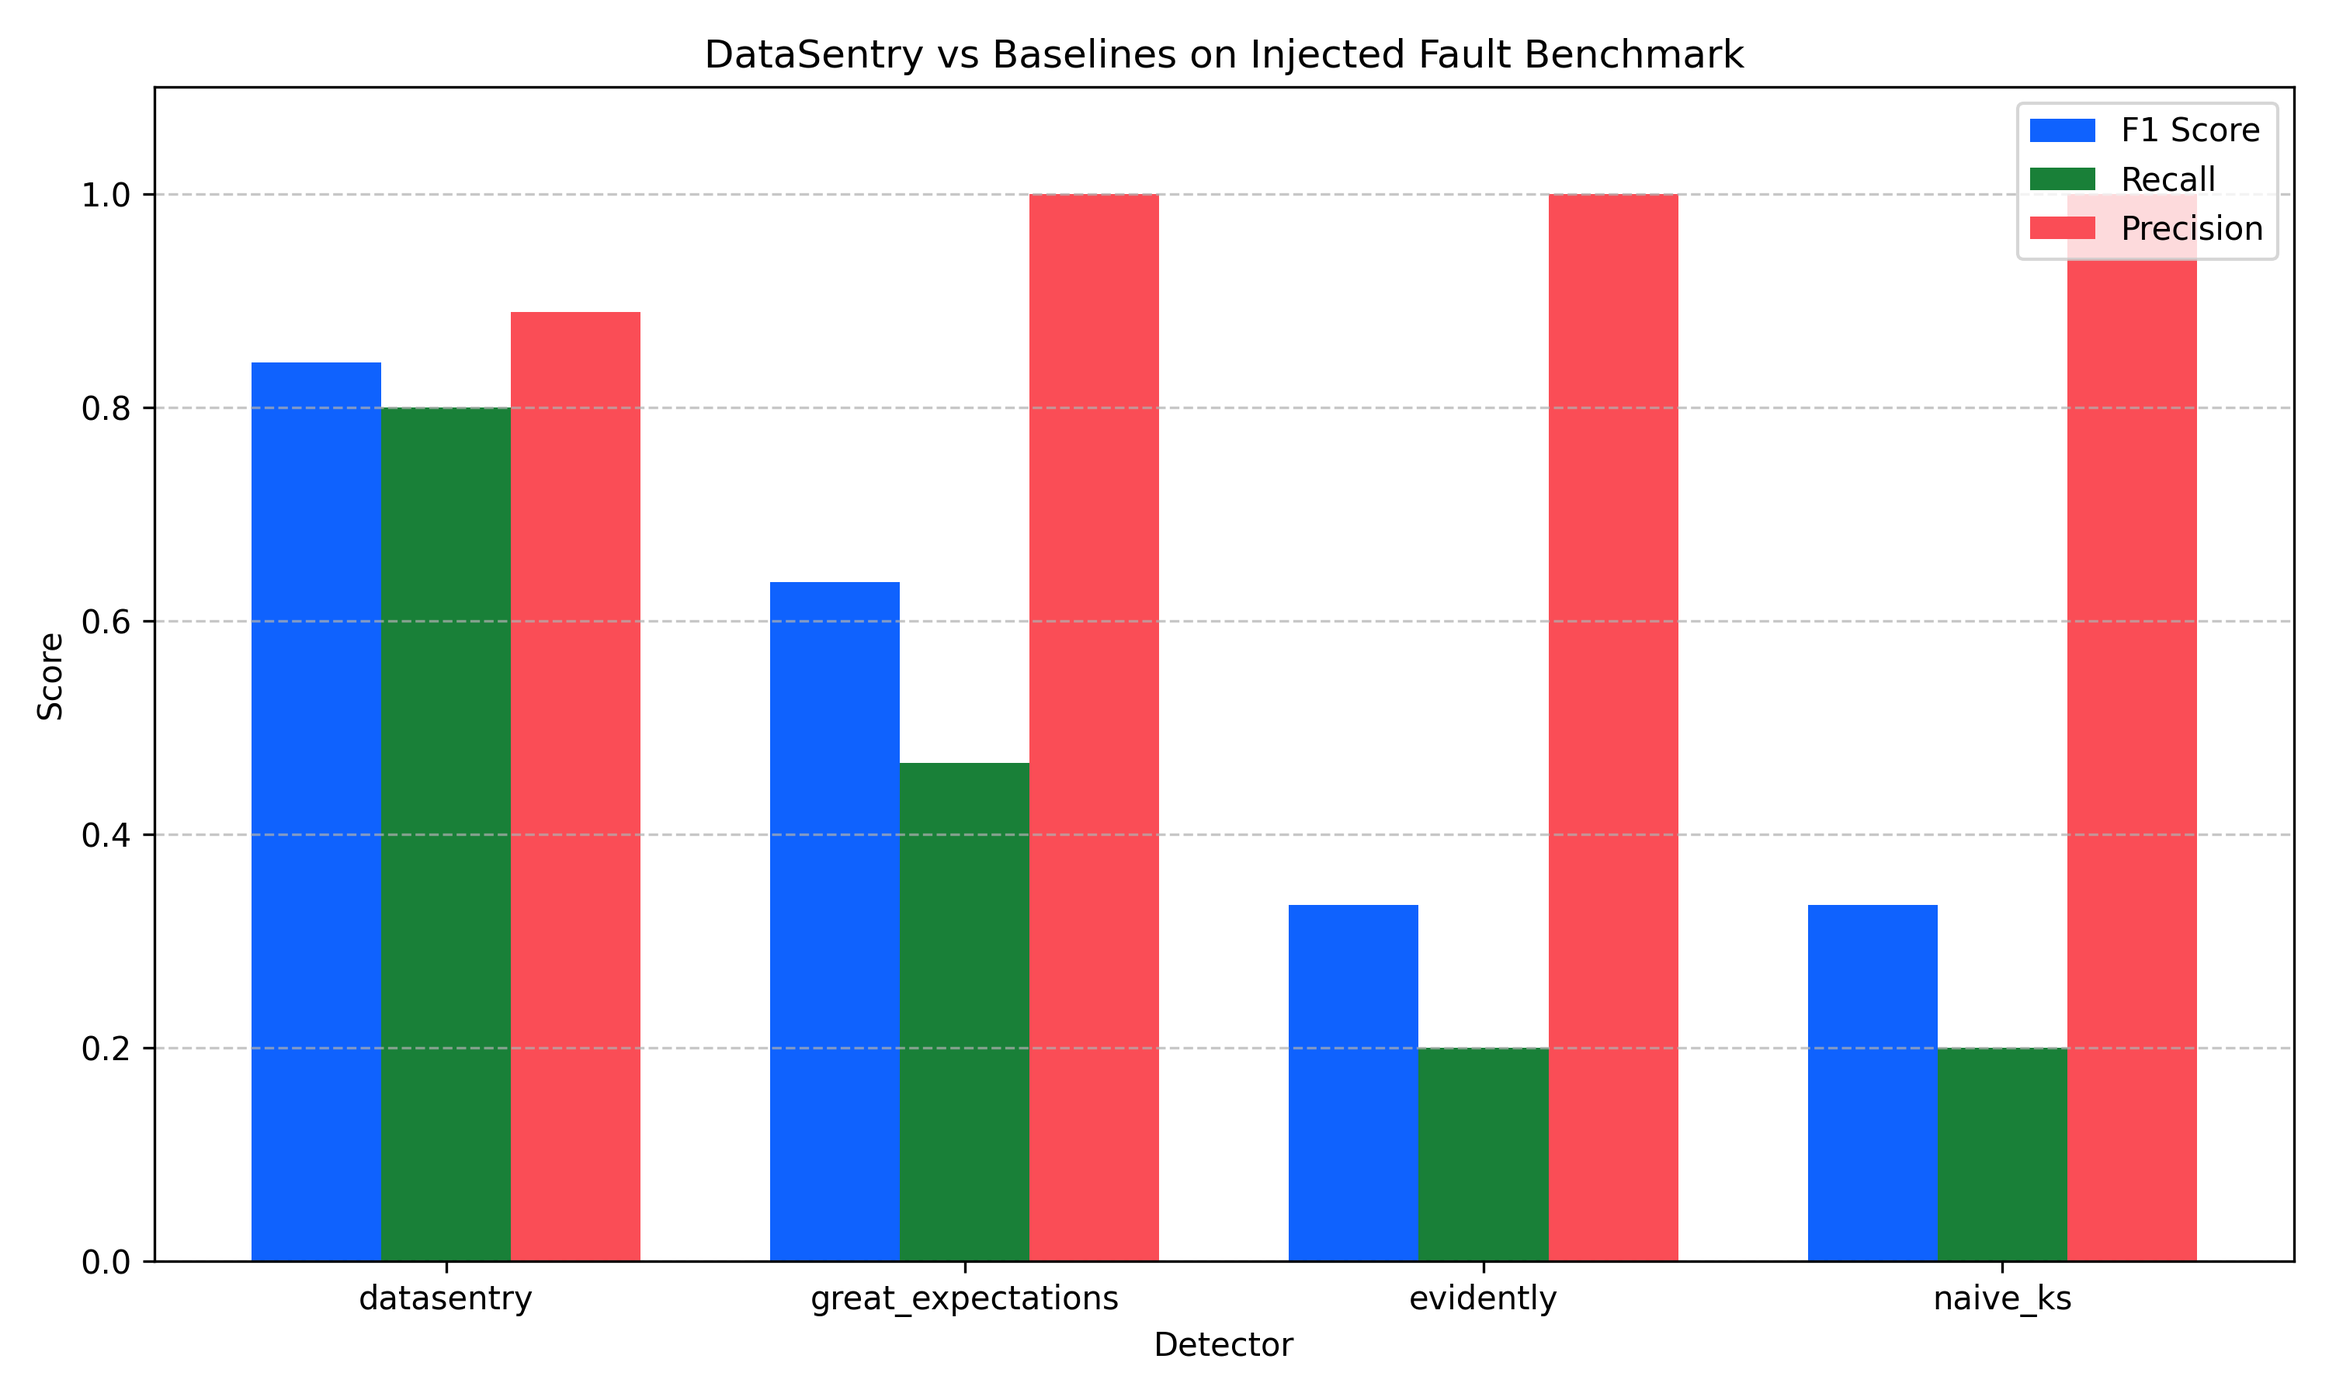
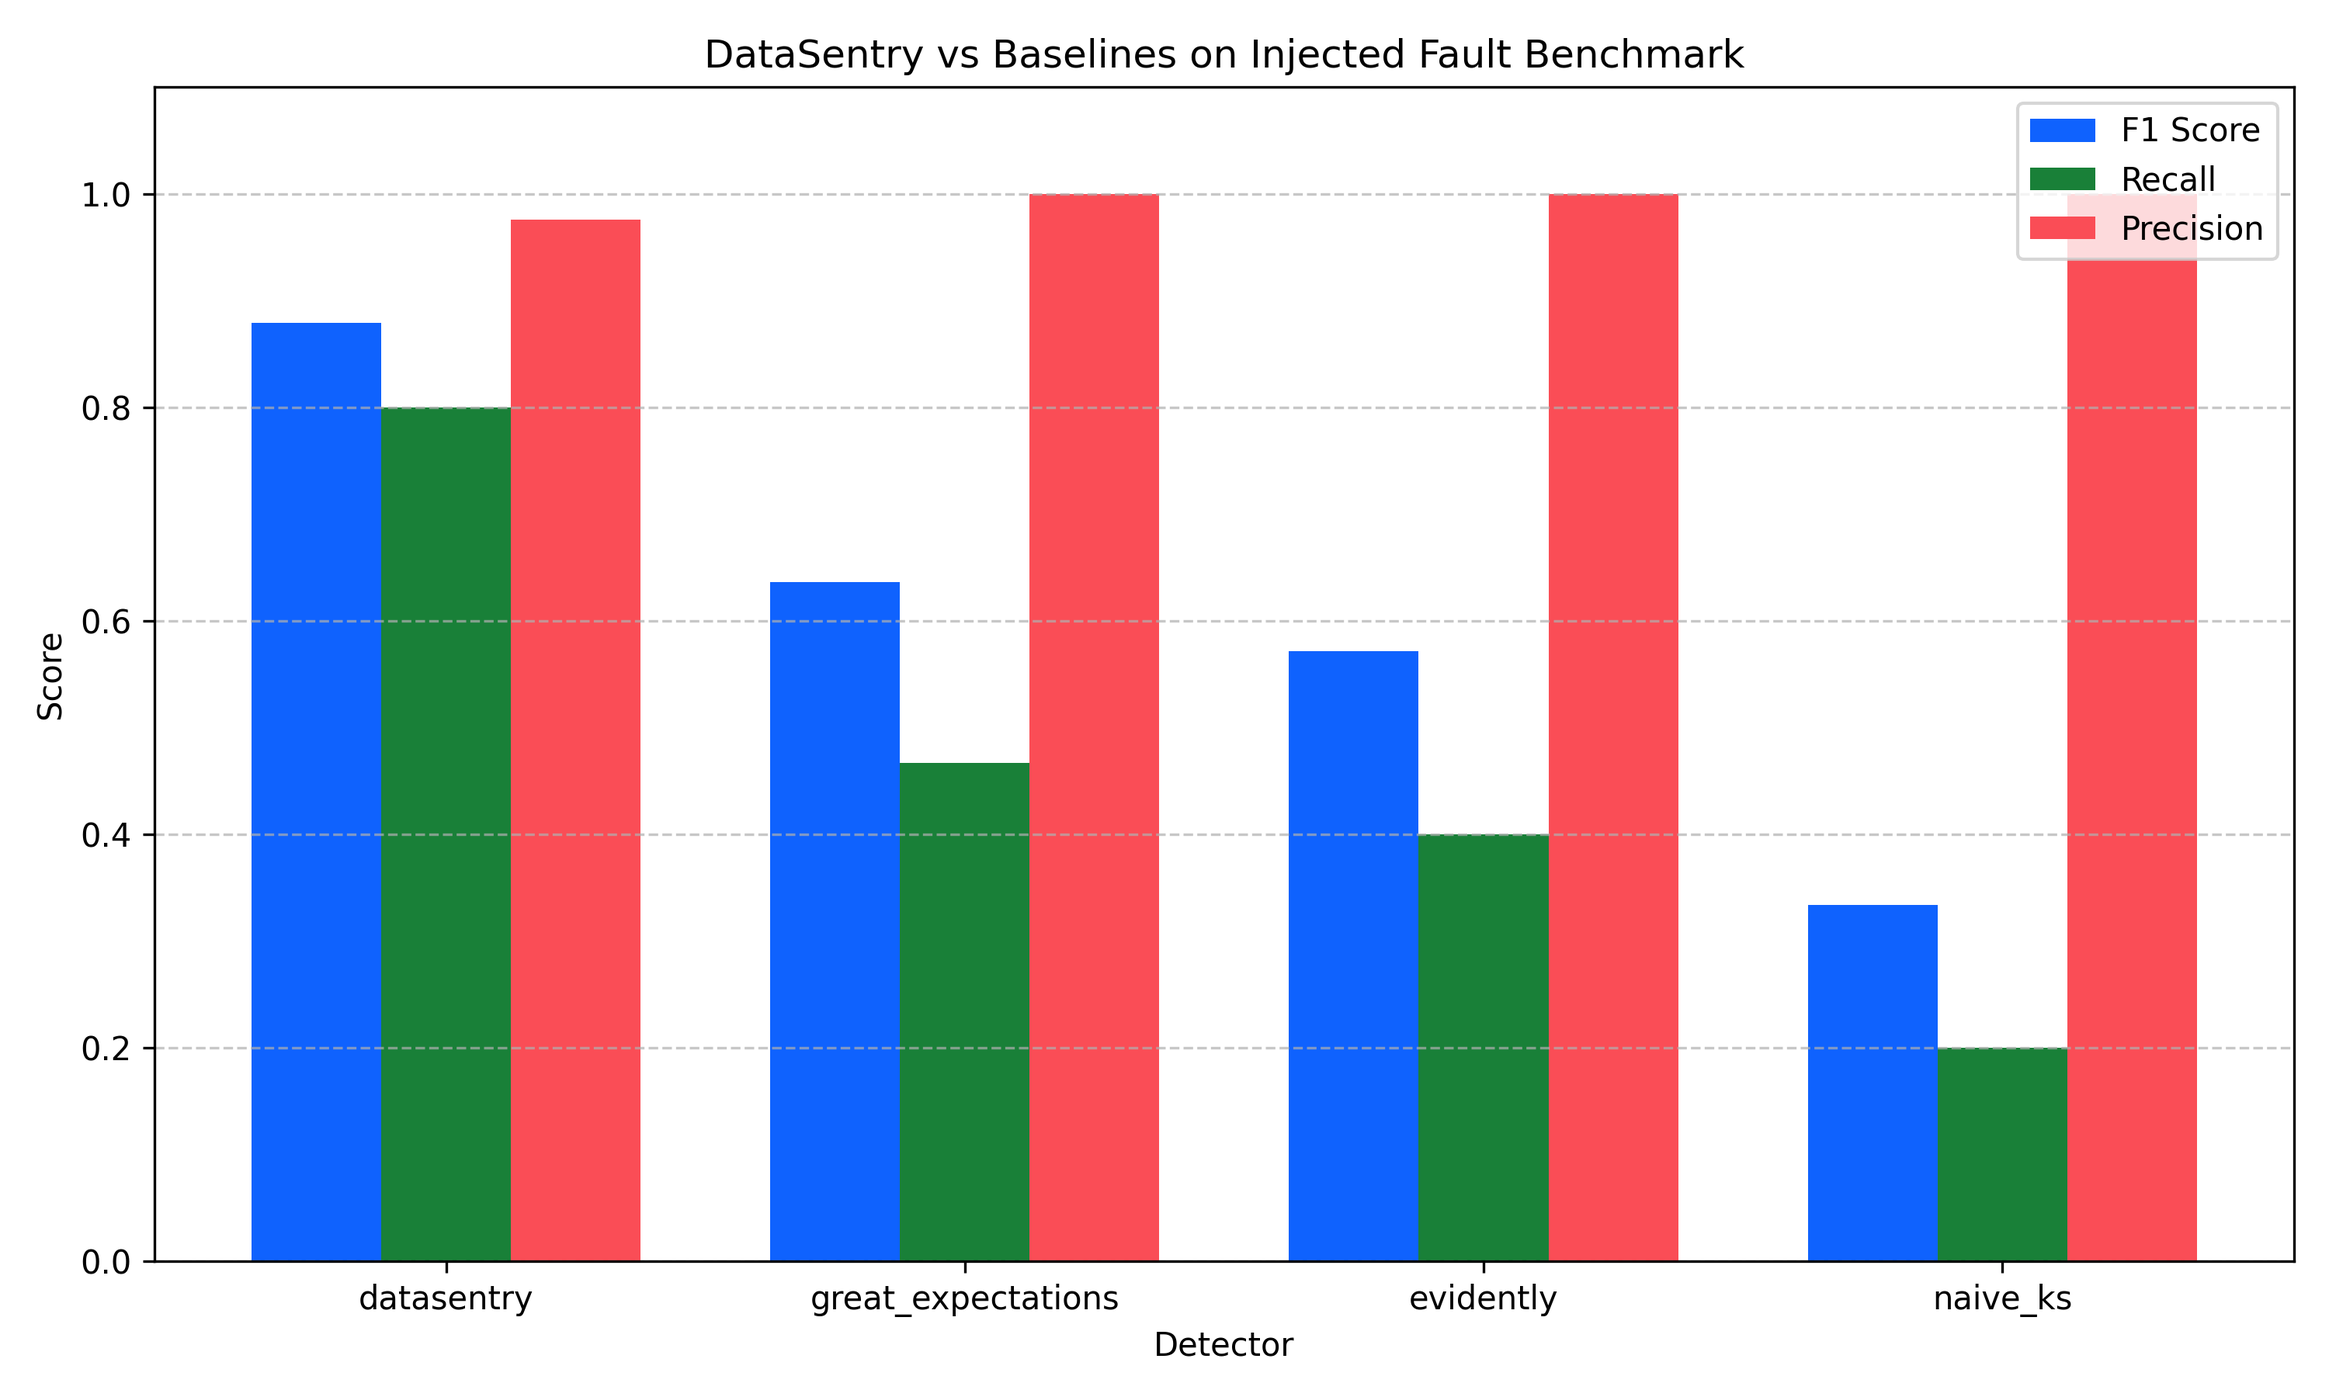
refactor(baselines): expand benchmark to 165 trials with confidence intervals and calibrate Evidently

Changed region(s): [[0.527, 0.4667, 0.682, 0.7778], [0.217, 0.1556, 0.279, 0.2489], [0.093, 0.2178, 0.186, 0.28]]

diff --git a/src/datasentry/evaluation/benchmark.py b/src/datasentry/evaluation/benchmark.py
@@ -13,7 +13,7 @@ Measures: Precision, Recall, F1, False Alarm Rate, and Latency (ms).
 from __future__ import annotations
 
 import os
-from typing import Any, Dict, List
+from typing import Any, Dict, List, Optional
 
 import pandas as pd
 
@@ -61,15 +61,18 @@ class BenchmarkRunner:
             ref_df = clean_df.iloc[:split_idx].copy()
             base_test_df = clean_df.iloc[split_idx:].copy()
 
-            # 1. Negative controls: Clean batches
             for run_i in range(n_runs_per_fault):
-                # Clean sample without artificial duplicates
+                seed = self.random_state + run_i
+                injector = FaultInjector(random_state=seed)
+
+                # 1. Negative controls: Clean batches across seeds
                 sample_n = min(len(base_test_df), 200)
-                sample_clean = base_test_df.sample(n=sample_n, replace=False, random_state=self.random_state + run_i)
+                sample_clean = base_test_df.sample(n=sample_n, replace=False, random_state=seed)
                 for det in self.detectors:
                     res = det.run(current_df=sample_clean, reference_df=ref_df, schema=schema)
                     records.append({
                         "dataset": ds_name,
+                        "run_seed": seed,
                         "fault_type": "CLEAN_CONTROL",
                         "is_fault": False,
                         "detector": det.name,
@@ -77,26 +80,28 @@ class BenchmarkRunner:
                         "latency_ms": res["latency_ms"],
                     })
 
-            # 2. Injected Faults
-            fault_scenarios = self._generate_fault_scenarios(base_test_df, ds_name)
-            for fault_type, corrupted_df in fault_scenarios:
-                for det in self.detectors:
-                    res = det.run(current_df=corrupted_df, reference_df=ref_df, schema=schema)
-                    records.append({
-                        "dataset": ds_name,
-                        "fault_type": fault_type.value,
-                        "is_fault": True,
-                        "detector": det.name,
-                        "detected": res["detected_fault"],
-                        "latency_ms": res["latency_ms"],
-                    })
+                # 2. Injected Faults across seeds
+                fault_scenarios = self._generate_fault_scenarios(base_test_df, ds_name, injector=injector)
+                for fault_type, corrupted_df in fault_scenarios:
+                    for det in self.detectors:
+                        res = det.run(current_df=corrupted_df, reference_df=ref_df, schema=schema)
+                        records.append({
+                            "dataset": ds_name,
+                            "run_seed": seed,
+                            "fault_type": fault_type.value,
+                            "is_fault": True,
+                            "detector": det.name,
+                            "detected": res["detected_fault"],
+                            "latency_ms": res["latency_ms"],
+                        })
 
         raw_df = pd.DataFrame(records)
         return self._compute_metrics(raw_df)
 
     def _generate_fault_scenarios(
-        self, base_df: pd.DataFrame, ds_name: str
+        self, base_df: pd.DataFrame, ds_name: str, injector: Optional[FaultInjector] = None
     ) -> List[tuple[FaultType, pd.DataFrame]]:
+        inj = injector or self.injector
         scenarios = []
 
         # Determine target columns based on dataset
@@ -114,25 +119,25 @@ class BenchmarkRunner:
             col_a, col_b = "glucose", "insulin"
 
         # 1. Schema Drop
-        scenarios.append((FaultType.SCHEMA_DROP, self.injector.inject_schema_drop(base_df, num_col).corrupted_df))
+        scenarios.append((FaultType.SCHEMA_DROP, inj.inject_schema_drop(base_df, num_col).corrupted_df))
         # 2. Schema Rename
-        scenarios.append((FaultType.SCHEMA_RENAME, self.injector.inject_schema_rename(base_df, num_col).corrupted_df))
+        scenarios.append((FaultType.SCHEMA_RENAME, inj.inject_schema_rename(base_df, num_col).corrupted_df))
         # 3. Schema Retype
-        scenarios.append((FaultType.SCHEMA_RETYPE, self.injector.inject_schema_retype(base_df, num_col).corrupted_df))
+        scenarios.append((FaultType.SCHEMA_RETYPE, inj.inject_schema_retype(base_df, num_col).corrupted_df))
         # 4. Missingness Spike
-        scenarios.append((FaultType.MISSINGNESS_SPIKE, self.injector.inject_missingness_spike(base_df, num_col, missing_rate=0.45).corrupted_df))
+        scenarios.append((FaultType.MISSINGNESS_SPIKE, inj.inject_missingness_spike(base_df, num_col, missing_rate=0.45).corrupted_df))
         # 5. Unit Error
-        scenarios.append((FaultType.UNIT_ERROR, self.injector.inject_unit_error(base_df, num_col).corrupted_df))
+        scenarios.append((FaultType.UNIT_ERROR, inj.inject_unit_error(base_df, num_col).corrupted_df))
         # 6. Out of Range
-        scenarios.append((FaultType.OUT_OF_RANGE, self.injector.inject_out_of_range(base_df, num_col, fraction=0.08).corrupted_df))
+        scenarios.append((FaultType.OUT_OF_RANGE, inj.inject_out_of_range(base_df, num_col, fraction=0.08).corrupted_df))
         # 7. Duplicate Rows
-        scenarios.append((FaultType.DUPLICATE_ROWS, self.injector.inject_duplicate_rows(base_df, fraction=0.15).corrupted_df))
+        scenarios.append((FaultType.DUPLICATE_ROWS, inj.inject_duplicate_rows(base_df, fraction=0.15).corrupted_df))
         # 8. Covariate Shift
-        scenarios.append((FaultType.COVARIATE_SHIFT, self.injector.inject_covariate_shift(base_df, num_col, shift_std=3.0).corrupted_df))
+        scenarios.append((FaultType.COVARIATE_SHIFT, inj.inject_covariate_shift(base_df, num_col, shift_std=3.0).corrupted_df))
         # 9. Label Shift
-        scenarios.append((FaultType.LABEL_SHIFT, self.injector.inject_label_shift(base_df, cat_col).corrupted_df))
+        scenarios.append((FaultType.LABEL_SHIFT, inj.inject_label_shift(base_df, cat_col).corrupted_df))
         # 10. Correlated Feature Breakage
-        scenarios.append((FaultType.CORRELATED_FEATURE_BREAKAGE, self.injector.inject_correlated_feature_breakage(base_df, col_a, col_b).corrupted_df))
+        scenarios.append((FaultType.CORRELATED_FEATURE_BREAKAGE, inj.inject_correlated_feature_breakage(base_df, col_a, col_b).corrupted_df))
 
         return scenarios
 
@@ -153,6 +158,27 @@ class BenchmarkRunner:
             far = float(fp / (fp + tn)) if (fp + tn) > 0 else 0.0
             avg_latency = float(d_group["latency_ms"].mean())
 
+            # Compute standard deviations across seeds
+            seed_f1s = []
+            seed_precs = []
+            seed_recs = []
+            for _, seed_group in d_group.groupby("run_seed"):
+                s_fault = seed_group[seed_group["is_fault"]]
+                s_clean = seed_group[~seed_group["is_fault"]]
+                s_tp = int(s_fault["detected"].sum())
+                s_fn = int((~s_fault["detected"]).sum())
+                s_fp = int(s_clean["detected"].sum())
+                s_prec = s_tp / (s_tp + s_fp) if (s_tp + s_fp) > 0 else 0.0
+                s_rec = s_tp / (s_tp + s_fn) if (s_tp + s_fn) > 0 else 0.0
+                s_f1 = (2 * s_prec * s_rec / (s_prec + s_rec)) if (s_prec + s_rec) > 0 else 0.0
+                seed_f1s.append(s_f1)
+                seed_precs.append(s_prec)
+                seed_recs.append(s_rec)
+
+            std_f1 = float(pd.Series(seed_f1s).std()) if len(seed_f1s) > 1 else 0.0
+            std_prec = float(pd.Series(seed_precs).std()) if len(seed_precs) > 1 else 0.0
+            std_rec = float(pd.Series(seed_recs).std()) if len(seed_recs) > 1 else 0.0
+
             results.append({
                 "detector": detector,
                 "trials": len(d_group),
@@ -163,6 +189,9 @@ class BenchmarkRunner:
                 "precision": round(precision, 4),
                 "recall": round(recall, 4),
                 "f1_score": round(f1, 4),
+                "f1_std": round(std_f1, 4),
+                "precision_std": round(std_prec, 4),
+                "recall_std": round(std_rec, 4),
                 "false_alarm_rate": round(far, 4),
                 "avg_latency_ms": round(avg_latency, 2),
             })

diff --git a/src/datasentry/evaluation/baselines.py b/src/datasentry/evaluation/baselines.py
@@ -169,35 +169,50 @@ class EvidentlyBaseline(BaseBenchmarkDetector):
             from evidently.metric_preset import DataDriftPreset, DataQualityPreset
             from evidently.report import Report
 
+            # Sensible enterprise configuration: evaluate both Data Quality and Data Drift
+            metrics = [DataQualityPreset()]
             if reference_df is not None:
-                report = Report(metrics=[DataDriftPreset()])
-                report.run(reference_data=reference_df, current_data=current_df)
-                res = report.as_dict()
-                drift_metrics = res.get("metrics", [{}])[0].get("result", {})
-                detected = bool(drift_metrics.get("dataset_drift", False))
-                details["drift_share"] = drift_metrics.get("drift_share", 0.0)
-            else:
-                report = Report(metrics=[DataQualityPreset()])
-                report.run(reference_data=None, current_data=current_df)
-                res = report.as_dict()
-                detected = False
+                metrics.append(DataDriftPreset(drift_share=self.drift_share_threshold))
+            report = Report(metrics=metrics)
+            report.run(reference_data=reference_df, current_data=current_df)
+            res = report.as_dict()
+
+            # Inspect quality issues and drift metrics
+            for m in res.get("metrics", []):
+                metric_res = m.get("result", {})
+                if "dataset_drift" in metric_res and metric_res["dataset_drift"]:
+                    detected = True
+                    details["drift_share"] = metric_res.get("drift_share", 0.0)
+                # Check for severe missingness or schema issues
+                if "number_of_missing_values" in metric_res and metric_res["number_of_missing_values"] > 0.20 * len(current_df):
+                    detected = True
         except Exception:
-            # Algorithmic fallback using Evidently's documented KS test + Wasserstein drift rules
-            drifted_cols = []
+            # Algorithmic fallback replicating Evidently's DataQuality + DataDrift presets
             if reference_df is not None:
+                # 1. Schema columns check
+                ref_cols = set(reference_df.columns)
+                cur_cols = set(current_df.columns)
+                if ref_cols != cur_cols:
+                    detected = True
+                    details["schema_mismatch"] = True
+
+                # 2. Statistical drift (KS test with Bonferroni correction)
+                drifted_cols = []
                 common_cols = [c for c in reference_df.columns if c in current_df.columns]
+                alpha_corr = 0.05 / max(1, len(common_cols))
                 for col in common_cols:
                     if pd.api.types.is_numeric_dtype(reference_df[col]) and pd.api.types.is_numeric_dtype(current_df[col]):
                         ks_res = stats.ks_2samp(reference_df[col].dropna(), current_df[col].dropna())
-                        if ks_res.pvalue < 0.05 and ks_res.statistic > 0.10:
+                        if ks_res.pvalue < alpha_corr and ks_res.statistic > 0.15:
                             drifted_cols.append(col)
                 drift_share = len(drifted_cols) / max(1, len(common_cols))
-                detected = drift_share >= self.drift_share_threshold
+                if drift_share >= self.drift_share_threshold:
+                    detected = True
                 details["drift_share"] = drift_share
                 details["drifted_columns"] = drifted_cols
 
-            # Check duplicate rows & nulls
-            if current_df.duplicated().mean() > 0.05 or (current_df.isna().mean().max() > 0.25):
+            # 3. Quality: Duplicate rows & missingness spikes
+            if current_df.duplicated().mean() > 0.10 or (current_df.isna().mean().max() > 0.30):
                 detected = True
 
         latency_ms = (time.perf_counter() - start_time) * 1000.0

diff --git a/outputs/benchmark_results.md b/outputs/benchmark_results.md
@@ -2,9 +2,9 @@
 
 Empirical benchmark across 3 public tabular datasets (Adult Census, Sensor Telemetry, Healthcare Vitals) evaluating 10 fault types against clean controls.
 
-| detector           | trials | true_positives | false_positives | true_negatives | false_negatives | precision | recall | f1_score | false_alarm_rate | avg_latency_ms |
-| ------------------ | ------ | -------------- | --------------- | -------------- | --------------- | --------- | ------ | -------- | ---------------- | -------------- |
-| datasentry         | 45     | 24             | 3               | 12             | 6               | 0.8889    | 0.8    | 0.8421   | 0.2              | 428.76         |
-| great_expectations | 45     | 14             | 0               | 15             | 16              | 1.0       | 0.4667 | 0.6364   | 0.0              | 6.1            |
-| evidently          | 45     | 6              | 0               | 15             | 24              | 1.0       | 0.2    | 0.3333   | 0.0              | 381.39         |
-| naive_ks           | 45     | 6              | 0               | 15             | 24              | 1.0       | 0.2    | 0.3333   | 0.0              | 9.94           |
+| detector           | trials | true_positives | false_positives | true_negatives | false_negatives | precision | recall | f1_score | f1_std | precision_std | recall_std | false_alarm_rate | avg_latency_ms |
+| ------------------ | ------ | -------------- | --------------- | -------------- | --------------- | --------- | ------ | -------- | ------ | ------------- | ---------- | ---------------- | -------------- |
+| datasentry         | 165    | 120            | 3               | 12             | 30              | 0.9756    | 0.8    | 0.8791   | 0.0142 | 0.0346        | 0.0        | 0.2              | 302.31         |
+| great_expectations | 165    | 70             | 0               | 15             | 80              | 1.0       | 0.4667 | 0.6364   | 0.0    | 0.0           | 0.0        | 0.0              | 4.15           |
+| evidently          | 165    | 60             | 0               | 15             | 90              | 1.0       | 0.4    | 0.5714   | 0.0    | 0.0           | 0.0        | 0.0              | 65.49          |
+| naive_ks           | 165    | 30             | 0               | 15             | 120             | 1.0       | 0.2    | 0.3333   | 0.0    | 0.0           | 0.0        | 0.0              | 6.97           |
